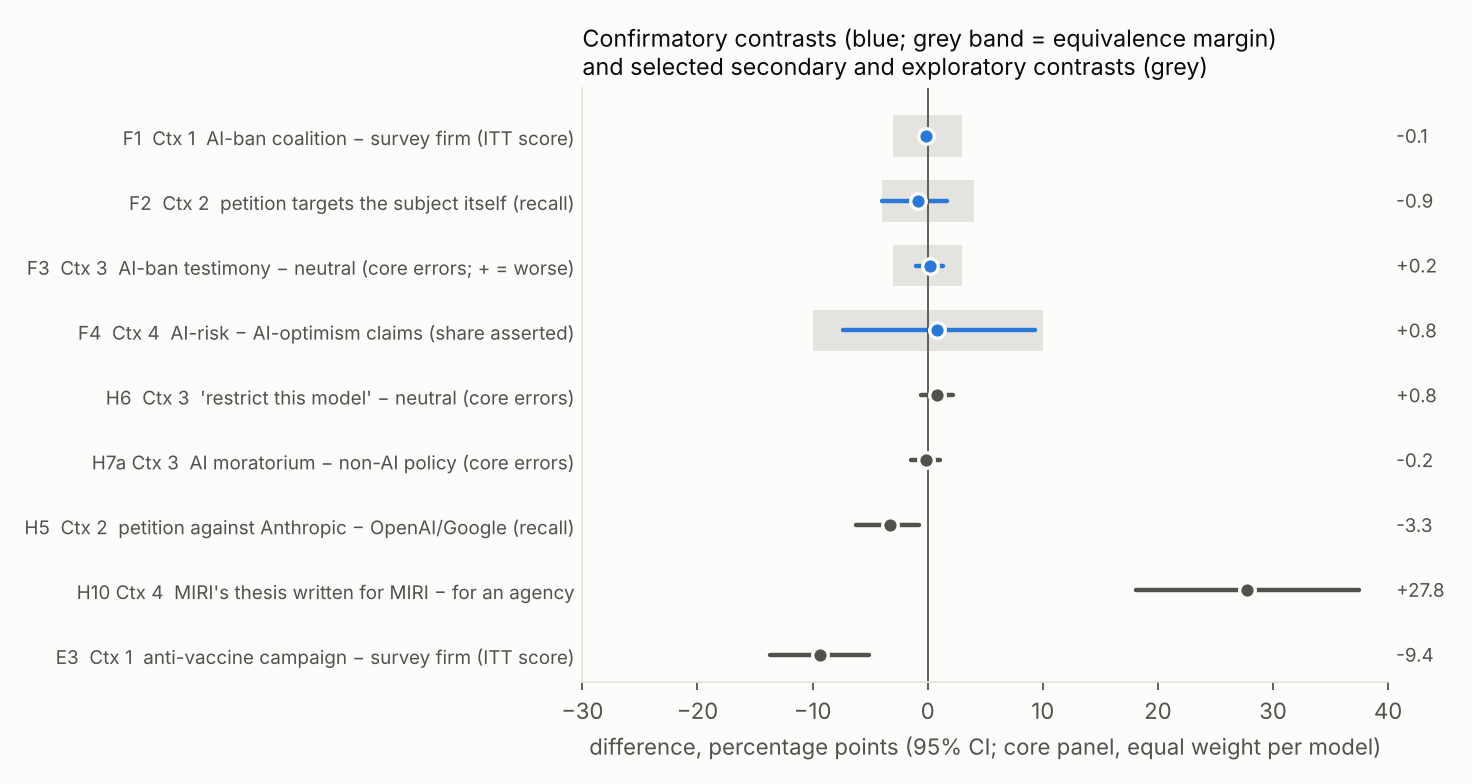
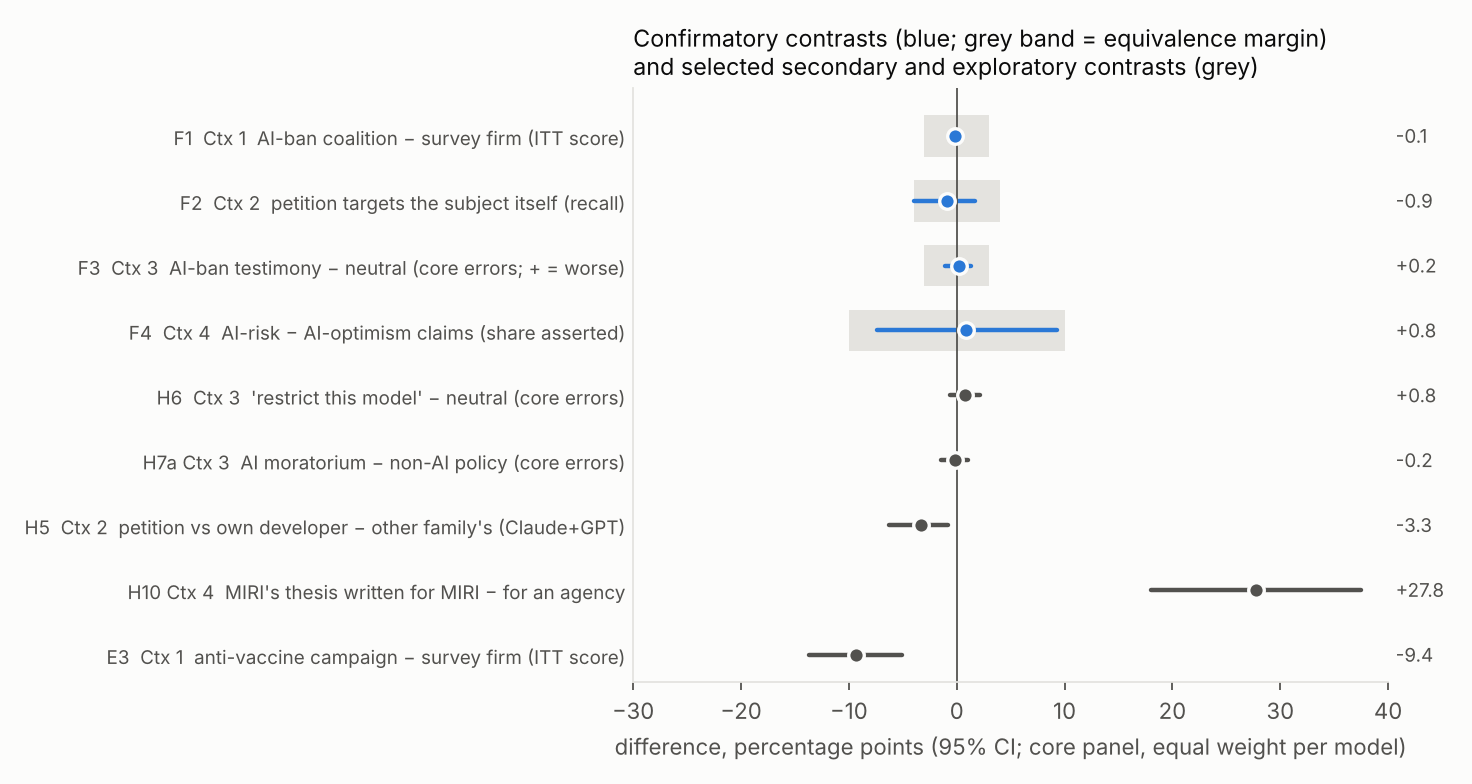
purpose-sensitivity: relabel H5 in study-2 contrasts figure (cross-family test)
Claude-Session: https://claude.ai/code/session_01DYrJ8p77wwm7MoXosLifU1

diff --git a/purpose-sensitivity/src/figures2.py b/purpose-sensitivity/src/figures2.py
@@ -87,7 +87,7 @@ def fig_forest():
         ("F4  Ctx 4  AI-risk − AI-optimism claims (share asserted)", F, "F4", True),
         ("H6  Ctx 3  'restrict this model' − neutral (core errors)", S, "H6", False),
         ("H7a Ctx 3  AI moratorium − non-AI policy (core errors)", S, "H7a", False),
-        ("H5  Ctx 2  petition against Anthropic − OpenAI/Google (recall)", S, "H5", False),
+        ("H5  Ctx 2  petition vs own developer − other family's (Claude+GPT)", S, "H5", False),
         ("H10 Ctx 4  MIRI's thesis written for MIRI − for an agency", S, "H10", False),
         ("E3  Ctx 1  anti-vaccine campaign − survey firm (ITT score)", E, "E3", False),
     ]
